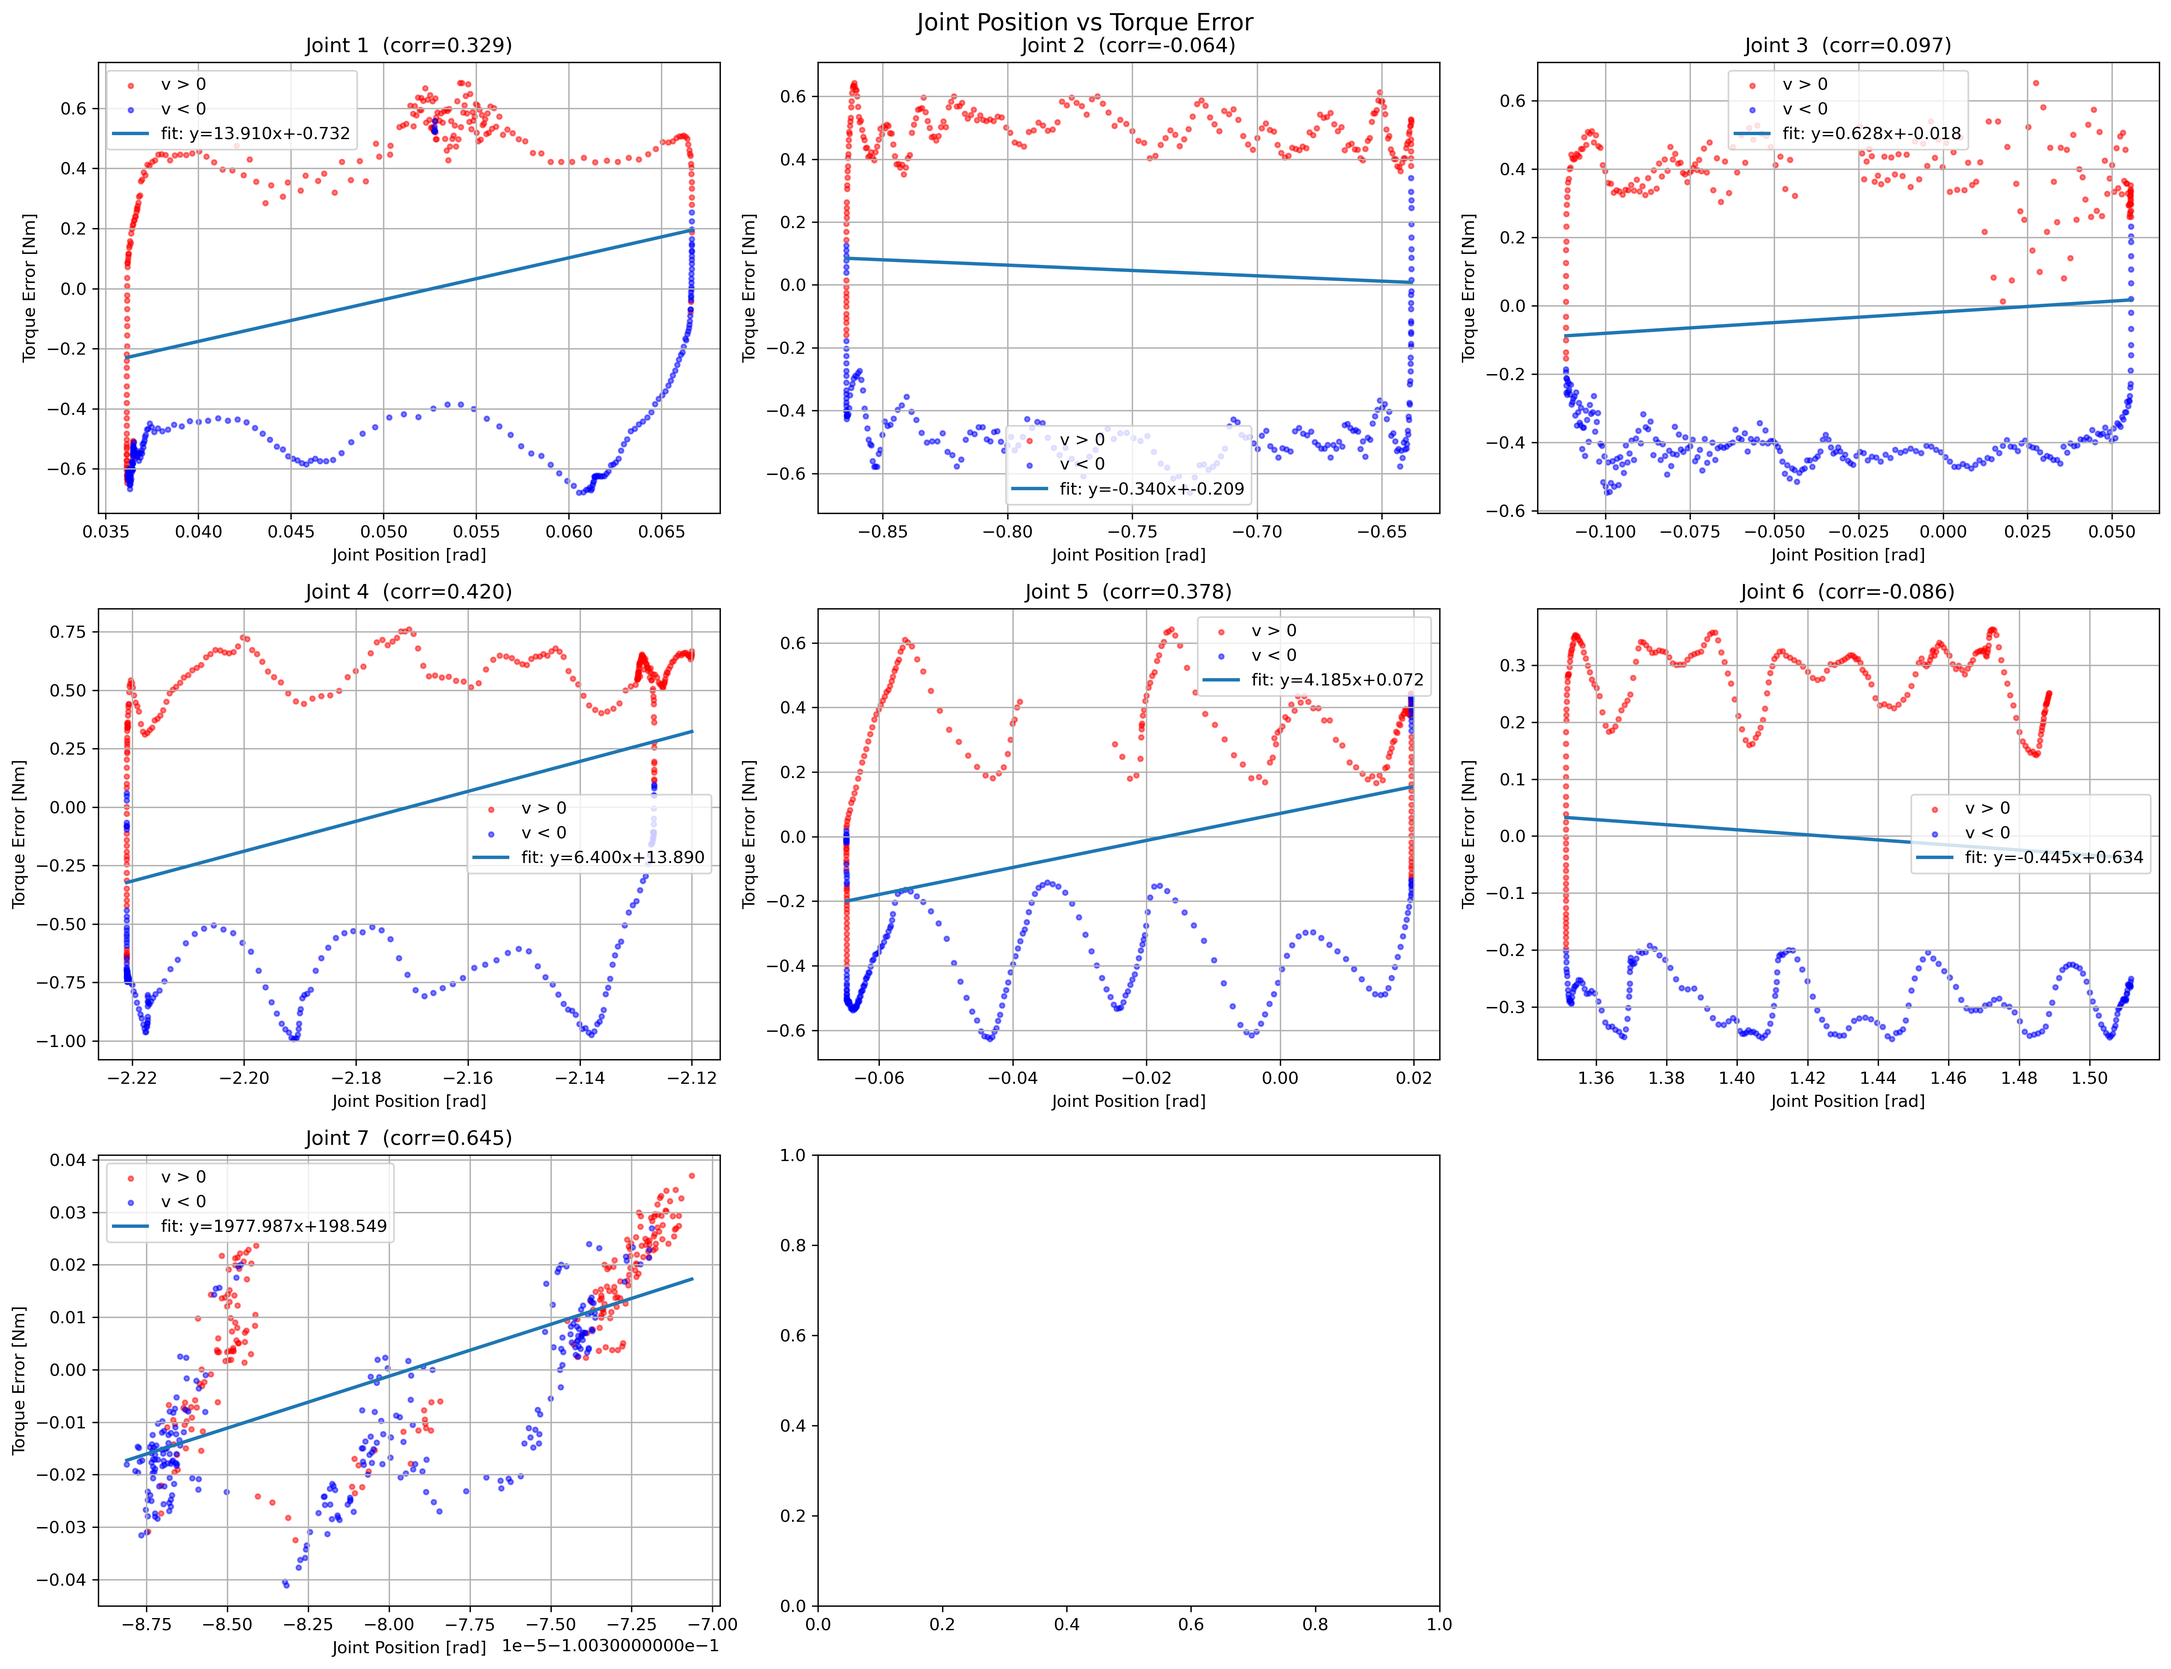
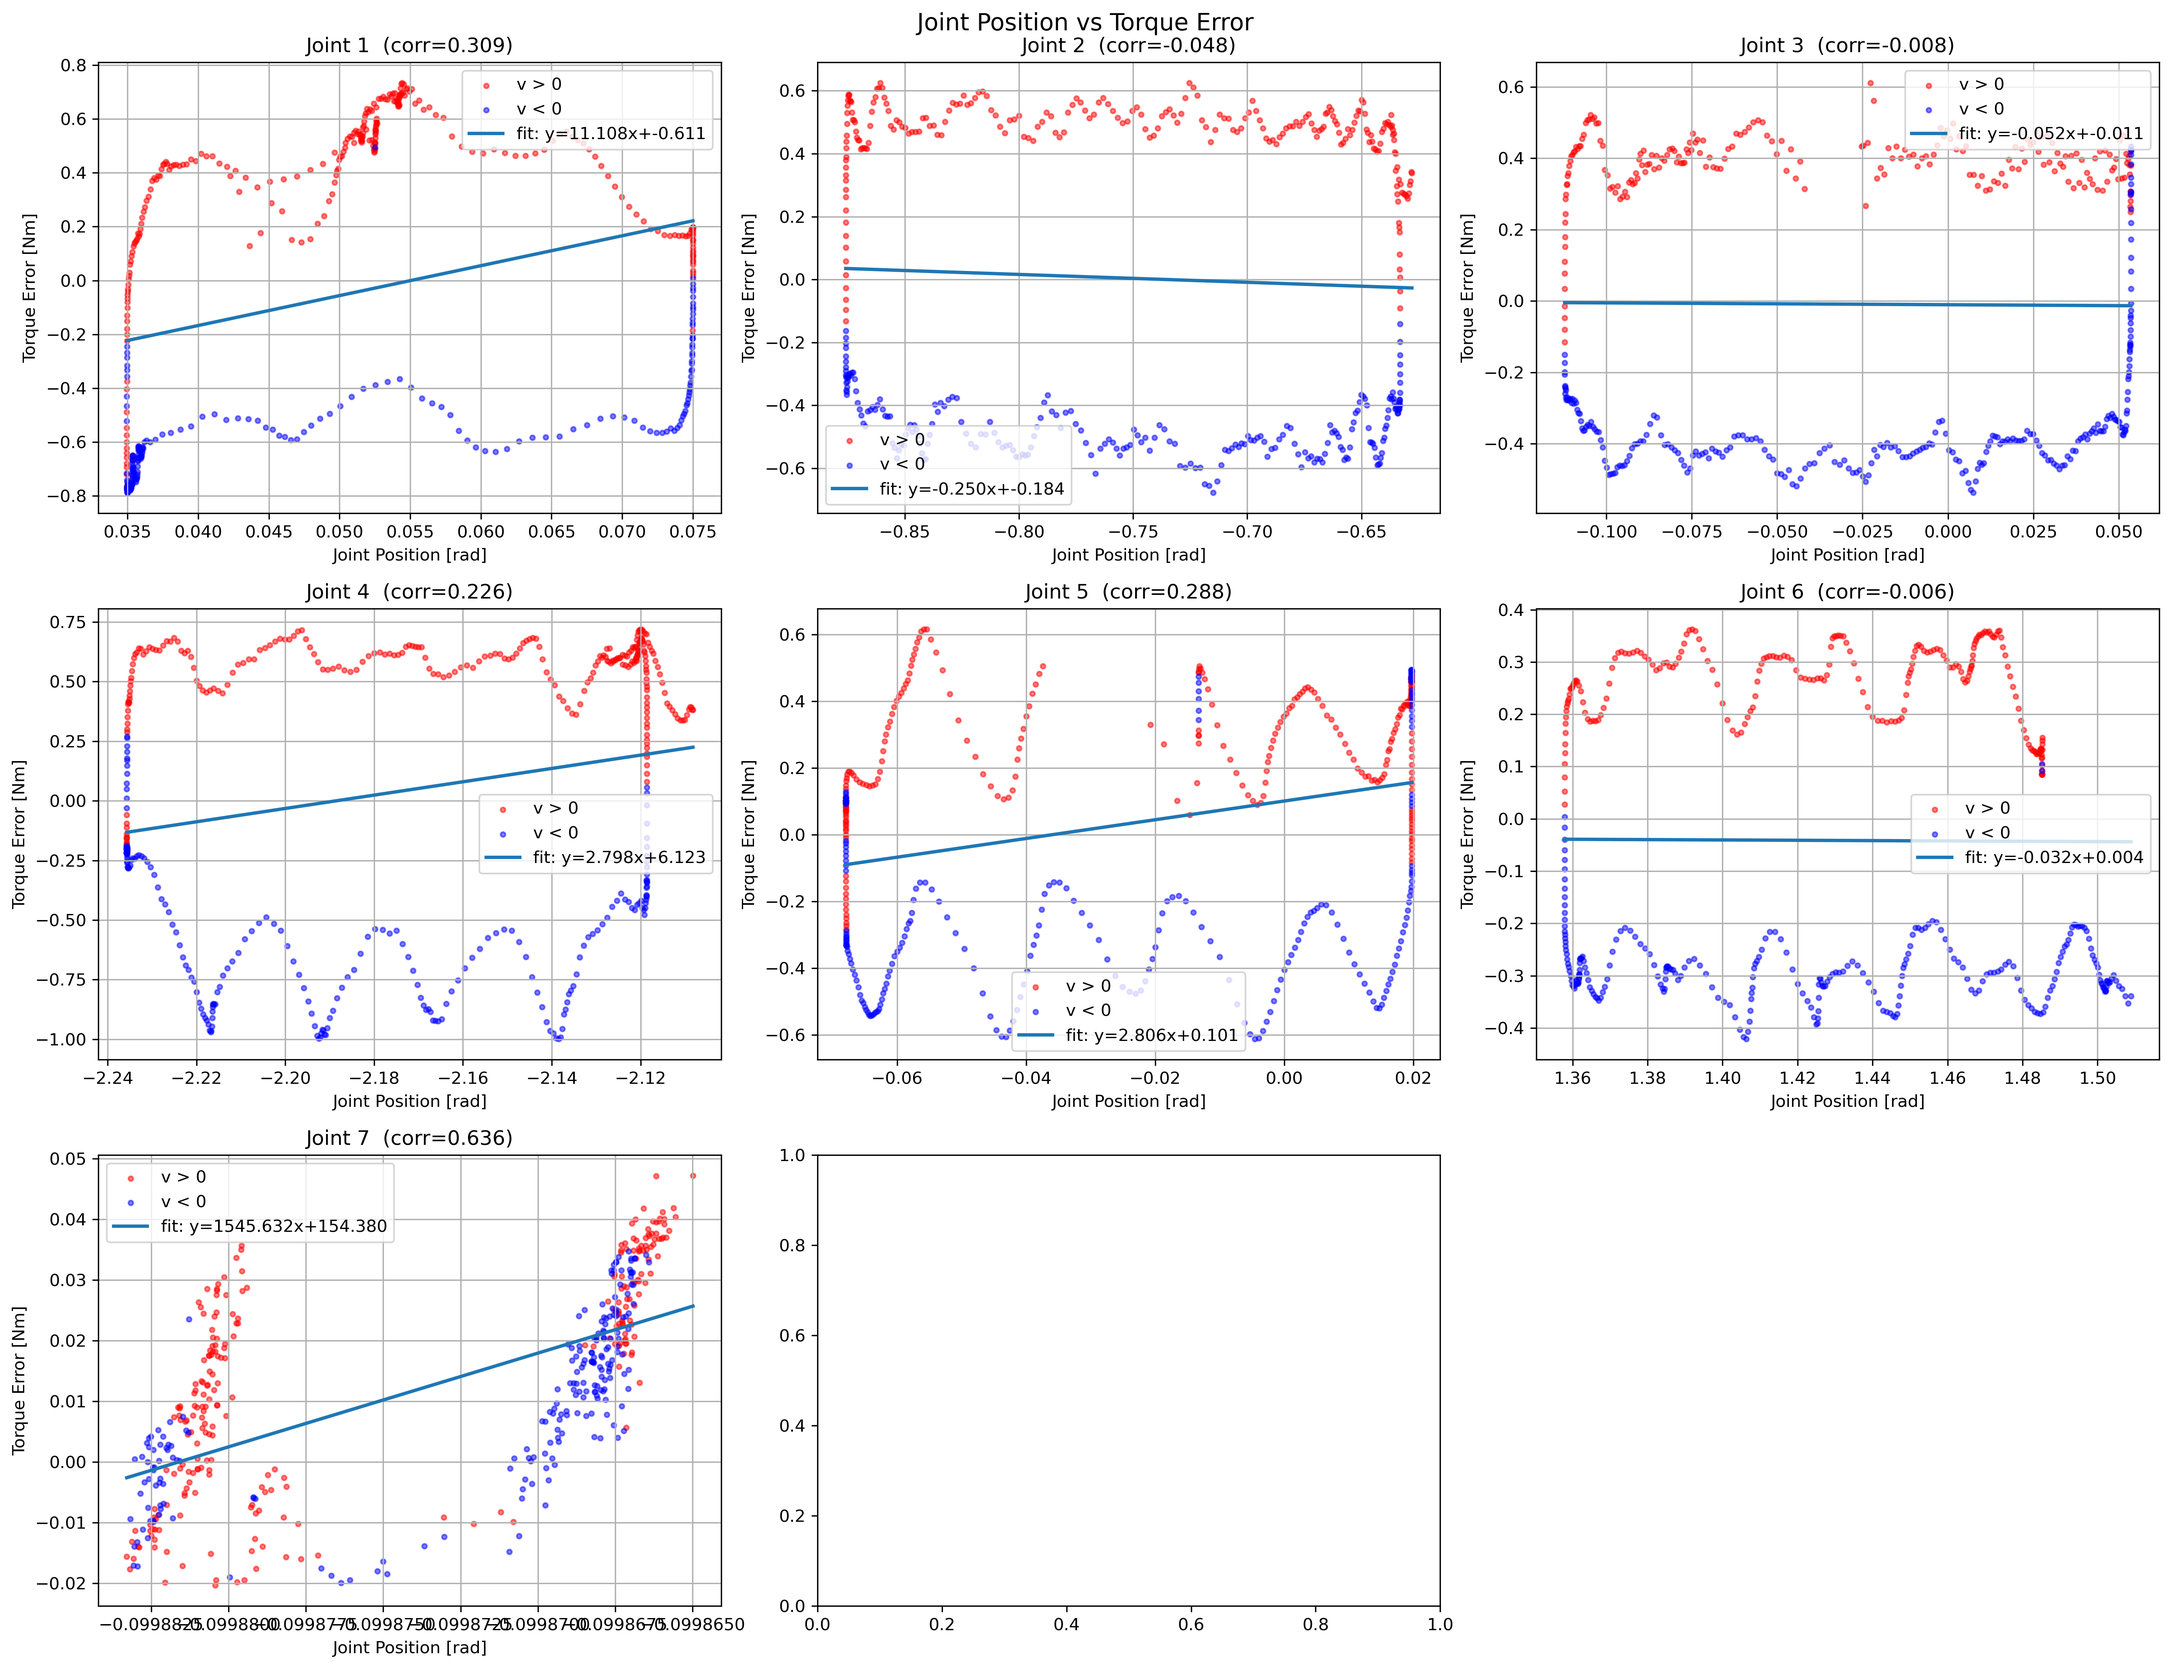
first tt-dgp demo completed

diff --git a/new_structure/plot_data/plot_data/plot_data.py b/new_structure/plot_data/plot_data/plot_data.py
@@ -288,23 +288,16 @@ def plot_data_from_csv(csv_filename):
     yhat_comb_cols  = cols_1to7(df, 'y_hat_')
     yhat_local_cols = cols_1to7(df, 'y_hat_local_')
     yhat_cloud_cols = cols_1to7(df, 'y_hat_cloud_')
+    yhat_mem_cols = cols_1to7(df,'y_hat_mem_')
     res_cols        = cols_1to7(df, 'tau_residual_')
-    yhat_mem_cols   = cols_1to7(df, 'y_hat_mem_')
 
-
-    if len(res_cols) == 7 and (
-        len(yhat_comb_cols)  == 7 or
-        len(yhat_local_cols) == 7 or
-        len(yhat_cloud_cols) == 7 or
-        len(yhat_mem_cols)   == 7
-    ):
-
+    if len(res_cols) == 7 and (len(yhat_comb_cols) == 7 or len(yhat_local_cols) == 7 or len(yhat_cloud_cols) == 7 or len(yhat_mem_cols) == 7):
         TR = df[res_cols].values       # shape [N,7]
 
         YH_comb  = df[yhat_comb_cols].values  if len(yhat_comb_cols)  == 7 else None
         YH_local = df[yhat_local_cols].values if len(yhat_local_cols) == 7 else None
         YH_cloud = df[yhat_cloud_cols].values if len(yhat_cloud_cols) == 7 else None
-        YH_mem   = df[yhat_mem_cols].values   if len(yhat_mem_cols)   == 7 else None
+        YH_mem = df[yhat_mem_cols].values if len(yhat_mem_cols) == 7 else None
 
         fig3, axes3 = plt.subplots(3, 3, figsize=(18, 14))
         fig3.suptitle('Per-Joint: GP predictions vs tau_residual', fontsize=14)
@@ -334,17 +327,9 @@ def plot_data_from_csv(csv_filename):
                 yh_cl = YH_cloud[:, j]
                 ax.plot(time_history, yh_cl, ':', linewidth=1.2, alpha=0.8, label='y_hat_cloud')
 
-            # 画 memory
             if YH_mem is not None:
-                yh_m = YH_mem[:, j]
-                ax.plot(
-                    time_history,
-                    yh_m,
-                    '-.',
-                    linewidth=1.2,
-                    alpha=0.9,
-                    label='y_hat_mem'
-                )
+                yh_mem = YH_mem[:, j]
+                ax.plot(time_history, yh_mem, ':', linewidth=1.2, alpha=0.8, label='y_hat_mem')
 
             # 画剩余误差：残差 - combined（如果有）
             if YH_comb is not None:

diff --git a/new_structure/py_controllers/py_controllers/cartesian_impedance.py b/new_structure/py_controllers/py_controllers/cartesian_impedance.py
@@ -559,7 +559,7 @@ class CartesianImpedanceController(Node):
 
             # ---------- 融合模式选择 ----------
             mode = self.gp_mode
-            mode = "none"
+            mode = "local"
 
             if mode == "local":
                 # local-only
@@ -836,8 +836,8 @@ class CartesianImpedanceController(Node):
                 header.extend([f'y_hat_{i+1}' for i in range(7)])          # combined
                 header.extend([f'y_hat_local_{i+1}' for i in range(7)])    # local
                 header.extend([f'y_hat_cloud_{i+1}' for i in range(7)])    # cloud
+                header.extend([f'y_hat_mem_{i+1}' for i in range(7)])    # cloud
                 header.extend([f'tau_residual_{i+1}' for i in range(7)])
-                header.extend([f'y_hat_mem_{i+1}' for i in range(7)])      # ⭐ memory
                 writer.writerow(header)
 
                 for i in range(min_len):
@@ -878,12 +878,12 @@ class CartesianImpedanceController(Node):
                         row.extend(self.y_hat_cloud_history[i])
                     else:
                         row.extend([0.0]*7)
-                    
+
                     if i < len(self.y_hat_mem_history):
                         row.extend(self.y_hat_mem_history[i])
                     else:
                         row.extend([0.0]*7)
-
+                    
                     if i < len(self.tau_residual_history):
                         row.extend(self.tau_residual_history[i])
                     else:
